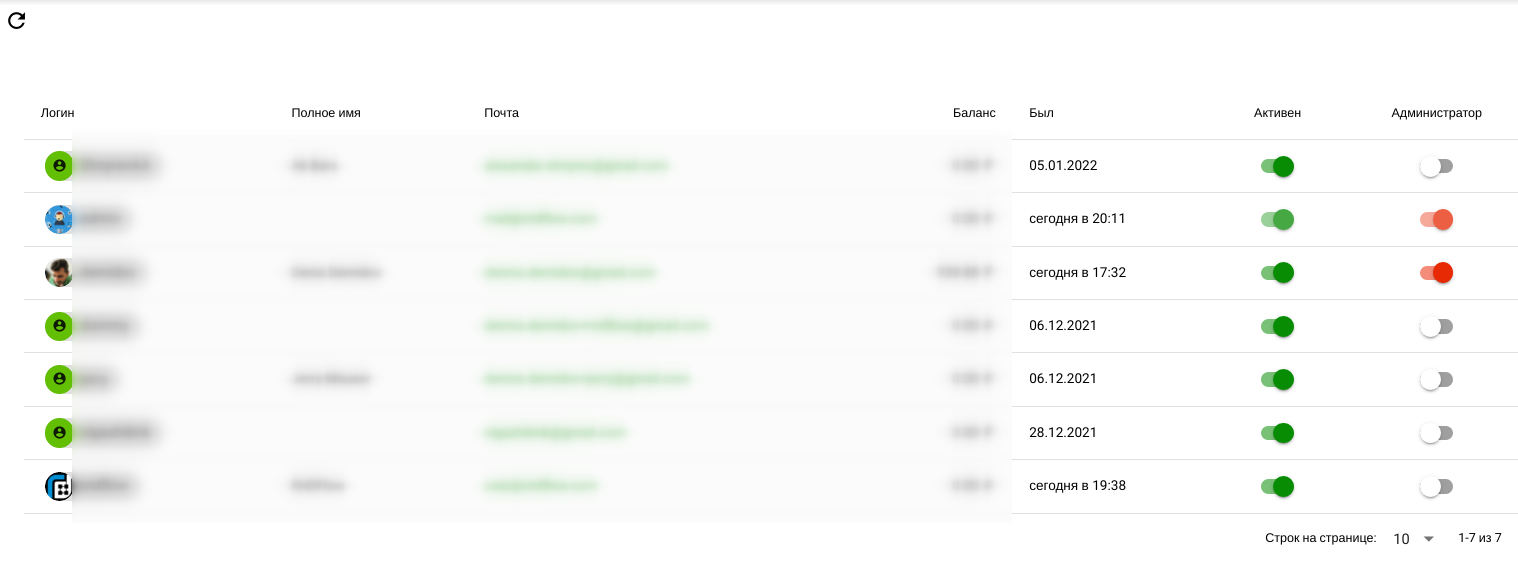
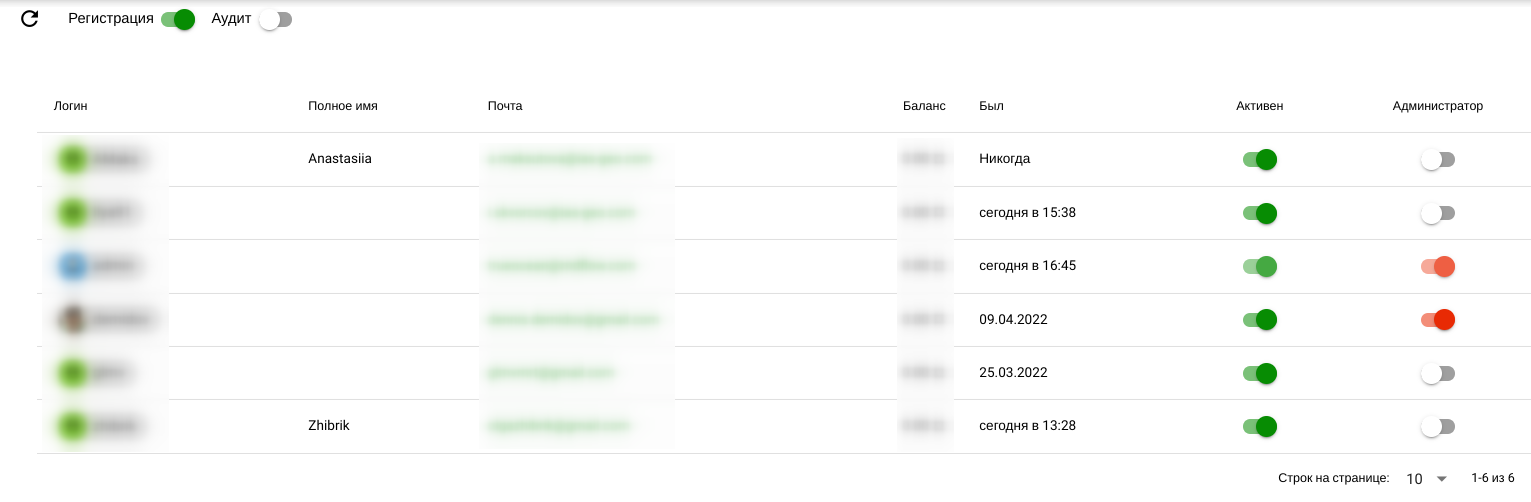
Add information about registation enable/disable and new users audit

diff --git a/src/instructions/README.md b/src/instructions/README.md
@@ -30,6 +30,22 @@
 
 - Нажать кнопку **ВХОД** и войти в систему.
 
+## Запрет регистрации
+
+В случае запрета регистрации окно регистрации принимает вид:
+
+![Registration disabled](/images/common/registration_disabled.png)
+
+
+## Аудит регистрации
+
+В случае включения на платформе режима аудита новых пользователей их автоматическая активация не производится. Активация новых пользователей производится администраторами платформы.
+
+В этом случае после подтверждения регистрации пользователь получает письмо следующего вида:
+
+![Registration audit letter](/images/common/registration_audit_wait.png)
+
+
 ## Выход из платформы
 
 Открыть панель ссылок в верхнем правом углу экрана и нажать на кнопку <span class="iconify-inline" data-icon="mdi:logout"></span>.

diff --git a/src/admin/README.md b/src/admin/README.md
@@ -134,7 +134,10 @@
 Структура:
 
 - Панель инструментов
-  - <span class='iconify-inline' data-icon='mdi:refresh'></span> Кнопка обновления списка пользователей
+  - <span class='iconify-inline' data-icon='mdi:refresh'></span> - кнопка обновления списка пользователей
+  - <span class='iconify-inline' data-icon='bi:toggle-on' style="color: green"></span> Регистрация - переключатель разрешения/запрета регистрации новых пользователей
+  - <span class='iconify-inline' data-icon='bi:toggle-on' style="color: green"></span> Аудит -переключатель включения/выключения аудита администратором новых пользователей
+    > В случае активации аудита аккаунты новых пользователей по умолчанию деактивированы и должны быть активированы администратором.
 - Таблица пользователей
 
   - Логин
